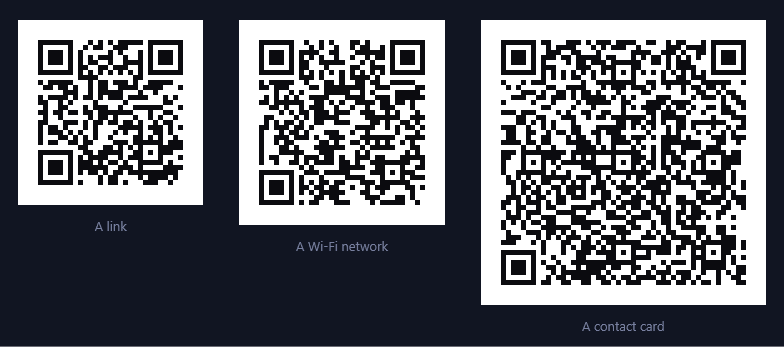
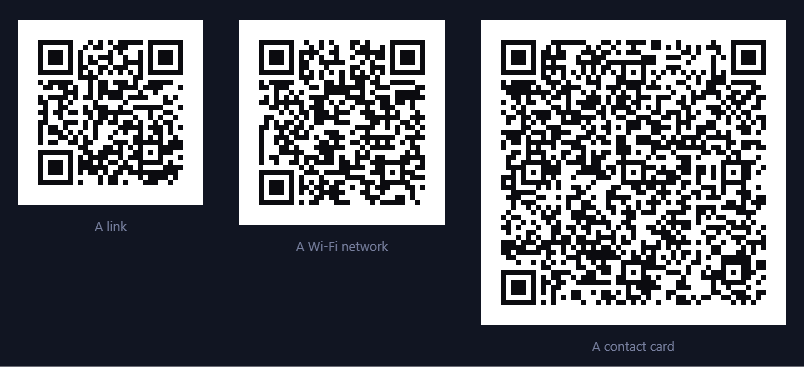
Read the drawn pixels back, and stop inventing vCard TYPEs
Scanning the generated codes turned up two reports: a Wi-Fi code that opened a
web page, and a contact card that offered to pick a contact rather than create
one. Neither reproduces in the payloads — both match the ZXing and markdown.org
forms exactly — but every test so far asserted on modules held in memory, and a
camera only ever sees pixels.

So the gap gets a test: render a block the way a document does, sample the
modules back out of the rasterised image, decode that. It would catch a grid
drawn a half-pixel out, transposed, inverted, or with the quiet zone eating a
row — none of which the matrix-level tests can see, and all of which still look
like a perfectly plausible picture. All three payload types survive it, at one
device-independent pixel per module as well.

The vCard change is worth making regardless of the report: the block says
nothing about what kind of phone or email it was given, so TEL;TYPE=CELL and
EMAIL;TYPE=INTERNET were detail we invented — and parameter syntax is the part
of vCard that readers handle least consistently.

diff --git a/src/Nexaflow.Tests/Nexaflow.Tests.Visuals/Markdown/Qr/QrPixelRoundTripTests.cs b/src/Nexaflow.Tests/Nexaflow.Tests.Visuals/Markdown/Qr/QrPixelRoundTripTests.cs
@@ -1,0 +1,121 @@
+using Nexaflow.Tests.Fixtures;
+using Nexaflow.Visuals.Text.Markdown;
+using Nexaflow.Visuals.Text.Markdown.Qr;
+using System.Windows;
+using System.Windows.Media;
+using System.Windows.Media.Imaging;
+
+namespace Nexaflow.Tests.Visuals.Markdown.Qr;
+
+/// <summary>
+/// The last gap between "the matrix is right" and "a phone can read it": every other test here asserts
+/// on modules held in memory, but a camera only ever sees pixels. This one renders a block the way the
+/// document does, reads the modules back out of the rasterised image, and decodes that.
+///
+/// <para>
+/// It is the test that would catch a renderer drawing the grid a half-pixel out, transposed, inverted,
+/// or with the quiet zone eating the first row ΓÇö none of which the matrix-level tests can see, and all
+/// of which look like a perfectly plausible picture.
+/// </para>
+/// </summary>
+[TestClass]
+[TestCategory("UI")]
+[CoversNode("qr-render")]
+public class QrPixelRoundTripTests
+{
+    [TestMethod]
+    public void EveryPayloadTypeSurvivesBeingDrawnAndReadBack() => UiThread.Run(() =>
+    {
+        (string Name, string Source)[] blocks =
+        [
+            ("url", """
+                    type: url
+                    url: https://markdown.org/tools/diagrams/qr/
+                    cellSize: 5
+                    """),
+            ("wifi", """
+                     type: wifi
+                     ssid: Nexaflow Guest
+                     password: s3cr3t-pass
+                     security: WPA
+                     cellSize: 5
+                     """),
+            ("vcard", """
+                      type: vcard
+                      name: Ada Lovelace
+                      org: Analytical Engines
+                      title: Engineer
+                      email: ada@example.com
+                      cellSize: 5
+                      """),
+        ];
+
+        foreach (var (name, source) in blocks)
+        {
+            Assert.IsTrue(QrBlockParser.TryParse(source, out var block, out string? error), error);
+
+            var matrix = QrEncoder.Encode(block!.Payload, block.ErrorCorrection);
+            var read   = ReadBackFromPixels(block, matrix);
+
+            Assert.AreEqual(block.Payload, QrTestDecoder.Decode(read),
+                $"the drawn {name} code does not read back as its payload");
+        }
+    });
+
+    [TestMethod]
+    public void ASmallCellSizeStillRasterisesEveryModule() => UiThread.Run(() =>
+    {
+        // One device-independent pixel per module is the floor the parser allows, and the place a
+        // rounding error would first swallow a row.
+        Assert.IsTrue(QrBlockParser.TryParse("type: text\ntext: TIGHT PACKED 123\ncellSize: 1\nmargin: 0",
+                                             out var block, out string? error), error);
+
+        var matrix = QrEncoder.Encode(block!.Payload, block.ErrorCorrection);
+        Assert.AreEqual(block.Payload, QrTestDecoder.Decode(ReadBackFromPixels(block, matrix)));
+    });
+
+    // ΓöÇΓöÇ Rasterise, then sample ΓöÇΓöÇΓöÇΓöÇΓöÇΓöÇΓöÇΓöÇΓöÇΓöÇΓöÇΓöÇΓöÇΓöÇΓöÇΓöÇΓöÇΓöÇΓöÇΓöÇΓöÇΓöÇΓöÇΓöÇΓöÇΓöÇΓöÇΓöÇΓöÇΓöÇΓöÇΓöÇΓöÇΓöÇΓöÇΓöÇΓöÇΓöÇΓöÇΓöÇΓöÇΓöÇΓöÇΓöÇΓöÇ
+
+    /// <summary>
+    /// Renders the block to a bitmap and samples the centre of each module back into a matrix ΓÇö what a
+    /// scanner does, minus finding the code in a photograph.
+    /// </summary>
+    private static QrMatrix ReadBackFromPixels(QrBlock block, QrMatrix matrix)
+    {
+        var element = WpfQrRenderer.Render(matrix, block, MarkdownPalette.Dark);
+        element.Margin = default;   // the block spacing is layout, not part of the picture
+
+        element.Measure(new Size(double.PositiveInfinity, double.PositiveInfinity));
+        element.Arrange(new Rect(element.DesiredSize));
+        element.UpdateLayout();
+
+        var bitmap = new RenderTargetBitmap(
+            (int)Math.Ceiling(element.DesiredSize.Width), (int)Math.Ceiling(element.DesiredSize.Height),
+            96, 96, PixelFormats.Pbgra32);
+        bitmap.Render(element);
+
+        int stride = bitmap.PixelWidth * 4;
+        var pixels = new byte[stride * bitmap.PixelHeight];
+        bitmap.CopyPixels(pixels, stride, 0);
+
+        double cell = block.CellSize;
+        var modules = new bool[matrix.Size * matrix.Size];
+
+        for (int y = 0; y < matrix.Size; y++)
+        {
+            for (int x = 0; x < matrix.Size; x++)
+            {
+                int px = (int)((block.Margin + x + 0.5) * cell);
+                int py = (int)((block.Margin + y + 0.5) * cell);
+                int i  = py * stride + px * 4;
+
+                // Pbgra32: B, G, R, A. A dark module is far from the near-white background, so the
+                // midpoint separates them without needing to know either colour.
+                int luminance = (pixels[i] + pixels[i + 1] + pixels[i + 2]) / 3;
+                modules[y * matrix.Size + x] = luminance < 128;
+            }
+        }
+
+        return new QrMatrix(matrix.Version, matrix.ErrorCorrection, matrix.Mask, modules);
+    }
+}

diff --git a/src/Nexaflow.Visuals.Text/Markdown/Qr/QrPayload.cs b/src/Nexaflow.Visuals.Text/Markdown/Qr/QrPayload.cs
@@ -209,12 +209,15 @@ internal static class QrPayload
 
         if (org is not null)     Line("ORG:"   + EscapeVCard(org));
         if (title is not null)   Line("TITLE:" + EscapeVCard(title));
-        if (phone is not null)   Line("TEL;TYPE=CELL:" + CompactNumber(phone));
-        if (email is not null)   Line("EMAIL;TYPE=INTERNET:" + EscapeVCard(email));
+        // No TYPE= parameters on these. The block gives one phone and one email with nothing said about
+        // what kind they are, so labelling them CELL and INTERNET would be inventing detail — and the
+        // parameter syntax is the part of vCard whose handling varies most between the things that read it.
+        if (phone is not null)   Line("TEL:"   + CompactNumber(phone));
+        if (email is not null)   Line("EMAIL:" + EscapeVCard(email));
         if (url is not null)     Line("URL:"   + EscapeVCard(url));
         // ADR's seven components are box;extended;street;locality;region;postcode;country. A single
         // written address cannot be split reliably, so it all goes in the street field.
-        if (address is not null) Line($"ADR;TYPE=WORK:;;{EscapeVCard(address)};;;;");
+        if (address is not null) Line($"ADR:;;{EscapeVCard(address)};;;;");
 
         Line("END:VCARD");
         return sb.ToString();

diff --git a/src/Nexaflow.Tests/Nexaflow.Tests.Visuals/Markdown/Qr/QrBlockParserTests.cs b/src/Nexaflow.Tests/Nexaflow.Tests.Visuals/Markdown/Qr/QrBlockParserTests.cs
@@ -151,6 +151,8 @@ public class QrBlockParserTests
             address: 12 Baker St, London
             """).Payload;
 
+        // No TYPE= parameters: the block says nothing about what kind of phone or email these are, and
+        // the parameter syntax is the part of vCard that readers handle least consistently.
         Assert.AreEqual(
             "BEGIN:VCARD\r\n"
           + "VERSION:3.0\r\n"
@@ -158,10 +160,10 @@ public class QrBlockParserTests
           + "FN:Ada Lovelace\r\n"
           + "ORG:Analytical Engines\r\n"
           + "TITLE:Engineer\r\n"
-          + "TEL;TYPE=CELL:+15551234567\r\n"
-          + "EMAIL;TYPE=INTERNET:ada@example.com\r\n"
+          + "TEL:+15551234567\r\n"
+          + "EMAIL:ada@example.com\r\n"
           + "URL:https://example.com\r\n"
-          + @"ADR;TYPE=WORK:;;12 Baker St\, London;;;;" + "\r\n"
+          + @"ADR:;;12 Baker St\, London;;;;" + "\r\n"
           + "END:VCARD\r\n",
             payload);
     }
